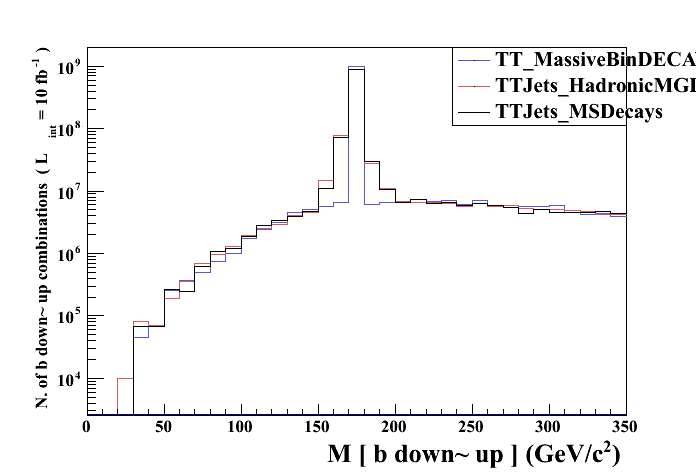
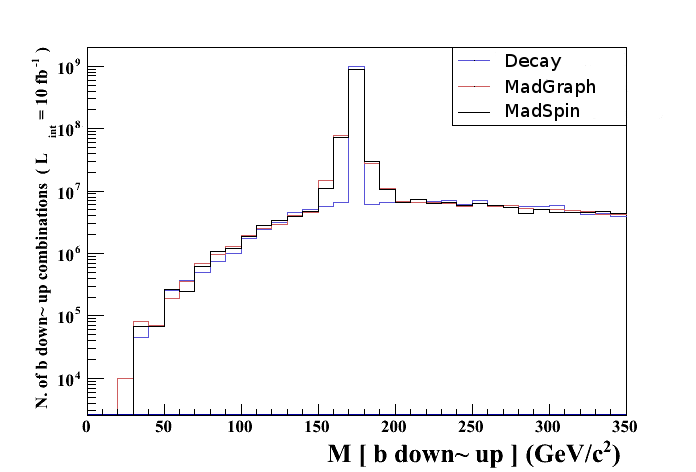
Complete MC chapter

Changed region(s): [[0.694, 0.089, 1.0, 0.2669]]

diff --git a/Chapter4.tex b/Chapter4.tex
@@ -25,7 +25,7 @@ The parton model was initially proposed by Richard Feynman in 1969, as a method 
 
 However, as the energy of the collision increases the probability to scatter a sea component, quark or gluon, increases. In addition, even if the valence quarks of a proton are the $u$ and $d$ quarks, heavier quarks can appear in the sea, as the $b$, $c$ or $s$ quarks. The probability to interact with a component, valence or sea, is described by parton distribution function, commonly called PDF. A PDF $f\equiv f(x,Q^{2})$ represent the number density of a given quark or gluon as a function of the energy scale $Q^{2}$ and the fraction of momentum carried by the parton $x$. The determination of a PDF is done via a fit of large data samples from experiments specifically designed to test the inner structure of nucleons. The DIS (Deep Inelastic Scattering) experiment at SLAC (Stanford Linear Accelerator Center), in California, United States, first probed the existence of partonic structure inside nucleons using leptons as probes scattered against nucleons. Another important experiment was the HERA accelerator at DESY in Hamburg, Germany, which used electrons to study the inner structure of protons.
 
-In figure~\ref{fig:MSTW} is shown the Martin-Stirling-Thorne-Watt~\cite{Martin:2009iq} (MSTW) PDF for two energy scales. The MSTW PDF is one of the experimental fits combining data from DIS and HERA. In this PDF can be seen that $u$ and $d$ quarks carry the most of the momentum of the proton. The rest of the momentum is spread mainly over a huge amount of gluons and some, less probable, sea quarks as $\bar{u}, \bar{d}$ or $c$ and $s$. One important feature is that the composition of the proton changes depending on the energy scale. At $Q^{2}= 10\, GeV^{2}$ there is no probability to find a $b$-quark in the proton while at $Q^{2}= 10^{4}\, GeV^{2}$ there is a non-negligible probability to find it in the proton.
+In figure~\ref{fig:MSTW} is shown the Martin-Stirling-Thorne-Watt~\cite{Martin:2009iq} (MSTW) PDF for two energy scales. The MSTW PDF is one of the experimental fits combining data from DIS and HERA. In this PDF can be seen that $u$ and $d$ quarks carry the most of the momentum of the proton. The rest of the momentum is spread mainly over a huge amount of gluons and some, less probable, sea quarks as $\bar{u}, \bar{d}$ or $c$ and $s$. One important feature is that the composition of the proton changes depending on the energy scale. At $Q^{2}= 10\, \text{GeV}^{2}$ there is no probability to find a $b$-quark in the proton while at $Q^{2}= 10^{4}\, \text{GeV}^{2}$ there is a non-negligible probability to find it.
 
 \begin{figure}[!Hhtbp]
   \begin{center}
@@ -59,7 +59,7 @@ Parton simulations try to simulate the interactions between partons in hadronic 
 \subsection{Hadron simulation}
 \label{sec:hadron}
 
-But quarks produced in a collision are not seen freely due to strong interaction. they will take quarks from vacua to form hadrons. What reach the detector as final state are the stable hadrons resulting from the hadronization process. From a single parton several hadrons can result, producing a \textit{shower} of particles, as seen in figure~\ref{fig:Hadr}. 
+But quarks produced in a collision are not seen freely due to strong interaction. They will take quarks from vacua to form hadrons. What reach the detector as final state are the stable hadrons resulting from the hadronization process. From a single parton several hadrons can result, producing a \textit{shower} of particles, as seen in figure~\ref{fig:Hadr}. Two main processes are simulated, the \textit{showering} that correspond to radiations emitted by quarks, at initial or final state, and \textit{hadronization} the process of forming hadrons from quarks and gluons. 
 
 As QCD strong interaction imposes several theoretical restrictions to have a first principles understanding of these phenomena, the description of hadronization relies in the construction of effective models. There are basically two main models to simulate hadronization/showering of quarks and gluons, both giving comparable predictions. It is important to remark that this is a very important step in simulations as from an accurate hadron production simulation depend the correctness of MC description of jets.
 
@@ -75,11 +75,11 @@ As QCD strong interaction imposes several theoretical restrictions to have a fir
 \subsection{Detector simulation}
 \label{sec:detector}
 
-After final particles from a collision are simulated, the next step is to simulate how these particles interact with the detector. The principle is that the detector response should be simulated as close as possible to the real detector. In that sense, the objective is to have a detector response using MC simulations as with real data. However, not everything is sensible of simulation. For example, during data taking can always happen different problems, subdetector misbehaving, dead cells, electrical noise saturation, etc. that can't be adjusted in MC simulation. What needs further correction and tuning. 
+After final particles from a collision are simulated, the next step is to simulate how these particles interact with the detector. The principle is that the detector response should be simulated as close as possible to the real detector. In that sense, the objective is to have a detector response using MC simulations as with real data. However, not everything is sensible of simulation. For example, during data taking can always happen different problems, subdetector misbehaving, dead cells, electrical noise saturation, etc. that can't be adjusted in MC simulation, what needs further correction and tuning. 
 
 CMS has used GEANT 4~\cite{Agostinelli:2002hh} software to simulate the detector. Precise implementation was done in order to correctly simulate each subdetector, their details as size, number of channels, cells, electronic cards, were taken into account. This simulation allows to get, as for data, the electric output from the detector used for the reconstruction and identification of objects. 
 
-MC simulations are always being corrected to match correctly the real experimental conditions. Moreover for complicated objects as jets, with many subdectectors information combined, or jet b-tagging that depend strongly of finding second vertices, easier to find in \textit{optimal} MC simulation conditions than experimental reality.
+MC simulations are always being corrected to match correctly the real experimental conditions. Moreover for complicated objects as jets, with many subdectectors information combined, or jet b-tagging that depend strongly of finding second vertices, easier to find in \textit{optimal} MC simulation conditions than in experimental reality.
 
 \section{Tools}
 \label{sec:tools}
@@ -91,15 +91,15 @@ There are several tools in the market to perform the different steps of MC simul
 
 Regarding parton simulation, \textit{MadGraph}~\cite{Alwall:2014hca, Alwall:2011uj} package is the most widely used. It calculates matrix-elements, LO cross sections and particle widths. With such information it generates MC events for parton collisions. 
 
-The latest series of releases also include an additional package to perform NLO QCD corrections to SM processes. The framework also includes the possibility to work with BSM models, making it a powerful tool for evaluating predictions from these models. 
+The latest series of releases also include an additional package to perform NLO QCD corrections to SM processes. The framework also includes the possibility to work with BSM models, making it a powerful tool for evaluating predictions from them. Another parton generator is POWHEG, in it's most recent version POWHEG BOX~\cite{Nason:2004rx, Frixione:2007vw, Alioli:2010xd}, that is specially accurate to simulate events with top quarks. It is well know that this generator gives a better agreement between data and MC in top physics.
 
 In CMS all physics groups, groups making analyses of data collected by CMS, have to do simulations of signals and backgrounds needed for their analyses. For this purpose MC simulation tools, as \textit{MadGraph}, need to be interfaced with the central CMS software \textit{CMSSW} (CMS SoftWare). The generators group do this work preparing sets of validated code for later use by CMS users. This group is also in charge of central MC production, the technical process of MC production of samples doing all the needed steps to obtain validated samples to compare with CMS data: Parton generation, Hadronization and Detector simulation. 
 
 Central production of samples using \textit{MadGraph} is done via the generation of stand-alone packs of code used to launch parallelized production. This utility is known as \textit{gridpack}. Gridpack generation must include all possible configurations needed for CMS central production: settings to run within CMSSW, in batch systems and additional physics requirements depending on the process to be generated. A special script has been put in place to allow users to do their own gridpack generation with small effort in terms of automatization of common tasks.
 
-In addition, the generator group also provide constant support for users to test validity of users production, \textit{MadGraph} configuration, usage of interface software in CMSSW and testing implementations of BSM models.
+In addition, the generator group also provide constant support for users to test the validity of their production, \textit{MadGraph} configuration, usage of interface software in CMSSW and testing implementations of BSM models.
 
-\subsubsection{Preparation of \textit{MadGraph} production cards}
+\subsubsection{Preparation of \textit{MadGraph} production}
 
 Any production of partonic MC samples with \textit{MadGraph} relies in 4 key elements:
 \begin{itemize}
@@ -132,7 +132,7 @@ output -f
       \end{center}
     \end{figure}
     
-    \item Parameters card: This card is utilized to set the parameters of the model being used for the production. Following the example of top pair production, one might be interested to produce different samples varying the top mass. In figure~\ref{fig:ParamCard} can be seen the extract of the card that controls the masses of the particles in the model. The first column refers to the PDG ID of the particles, 6 for the top quark, and the second column is the value of the mass. In this case the top mass has been set to 172.5 GeV/$c^{2}$.
+    \item Parameters card: This card is utilized to set the parameters of the model invoked for the production. Following the example of top pair production, one might be interested to produce different samples varying the top mass. In figure~\ref{fig:ParamCard} can be seen the extract of the card that controls the masses of the particles in the model. The first column refers to the PDG ID of the particles, 6 for the top quark, and the second column is the value of the mass. In this case the top mass has been set to 172.5 GeV/$c^{2}$.
     \begin{figure}[!Hhtbp]
       \begin{center}
         \begin{minipage}[c]{0.45\textwidth}
@@ -156,7 +156,7 @@ Block MASS
       \end{center}
     \end{figure}
 
-  \item Run card: In the run card several settings can be chosen related to the generation of the events. For example, the center of mass energy or the minimal and maximal $\Delta R$ between jets. For generation of events requiring more than one additional extra jet a parameter called \textbf{xqcut} can also be set in this card. This parameter is relevant for merging procedure, important to avoid double counting, a topic that will be discussed in section~\ref{sec:Merging}. In figure~\ref{fig:RunCard} an extract of a run card is shown, where the parameters corresponding to the $\sqrt{s}$ of the collision, the number of events to be generated, gridpack generation, the choice of PDF set and merging are displayed.
+  \item Run card: In the run card several settings can be fixed related to the generation of the events. For example, the center of mass energy or the minimal and maximal $\Delta R$ between jets. For generation of events requiring more than one additional extra jet a parameter called \textbf{xqcut} can also be set in this card. This parameter is relevant for merging procedure, important to avoid double counting, a topic that will be discussed in section~\ref{sec:Merging}. In figure~\ref{fig:RunCard} an extract of a run card is shown, where the parameters corresponding to the $\sqrt{s}$ of the collision, the number of events to be generated, gridpack generation, the choice of PDF set and merging procedure are displayed.
     \begin{figure}[!Hhtbp]
       \begin{center}
         \begin{minipage}[c]{0.7\textwidth}
@@ -212,7 +212,7 @@ Block MASS
 
 \textit{MadGraph} package is one of the MC tools most used in the market. It's a very dynamic tool, were the input from the users is being taken into account permanently. Are precisely the users that give reports of possible bugs or recommendations in the way the tool works. New releases of \textit{MadGraph} are constantly delivered to solve found issues or to improve weaknesses. For CMS production, not every new release is automatically incorporated. In order to begin using a new release a validation procedure is done. Basic processes of the SM are taken with the last release used by CMS and then compared to the new release. Such comparison is performed to control that the predictions from both releases are identical, off course processes where no changes have been performed between both releases. 
 
-For example, one of the control processes for this validation is SM production of a $Z$ boson that decays into neutrinos produced with extra jets. In \textit{MadGraph} extra jets has the capability to produce extra jets up to a multiplicity of 4. In figure~\ref{fig:ZRelVal1} can be seen the comparison between samples produced with \textit{MadGraph} 1.4.8 and 1.5.11. The results of both releases are equivalent for the specific considered process.
+For example, one of the control processes for this validation is SM production of a $Z$ boson that decays into neutrinos produced with extra jets. \textit{MadGraph} is able to produce extra jets up to a multiplicity of 4. In figure~\ref{fig:ZRelVal1} can be seen the comparison between samples produced with \textit{MadGraph} 1.4.8 and 1.5.11. The results of both releases are equivalent for the specific considered process.
 
 \begin{figure}[!Hhtbp]
   \begin{center}
@@ -243,15 +243,15 @@ In addition, in figure~\ref{fig:ZRelVal2} can be seen two global variables, miss
 
 \subsubsection{Incorporating new releases improvements}
 
-New \textit{MadGraph} releases are interesting not only because of bugs being fixed but also because they normally include new features and improvements. For example, latest set of releases of include NLO corrections for SM processes. NLO corrections are crucial to do precise measurements that is one of the major interests in various SM sectors. Top physics has become a very important sector to perform precise measurements. Any small deviation of SM predictions related to the top quark could be related to the presence of BSM physics. To this extent, there is a growing need to have better MC simulations of top quark processes.
+New \textit{MadGraph} releases are interesting not only because of bugs being fixed but also because they normally include new features and improvements. For example, latest set of releases include NLO corrections for SM processes, improvement not present before. NLO corrections are crucial to do precise measurements, that is one of the major interests in various SM sectors. Top physics has become a very important sector to perform precise measurements. Any small deviation of SM predictions related to the top quark could be related to the presence of BSM physics. To this extent, there is a growing need to have better MC simulations of top quark processes.
 
-From a technical point of view a complete simulation of top decay chain was not feasible. It was very time and CPU consuming for old \textit{MadGraph} releases. Modern releases have improved the performance of these calculations but also have included new tools that allow to simulate at parton level the entire top decay chain with high precision and small resources. One of these tools is MadSpin~\cite{Artoisenet:2012st, Frixione:2007zp}, tool developed to conserve the spin correlations between the decay products. However \textit{MadGraph} alone is able to simulate the top decay is extremely CPU and time consuming, then not usable for big central production at CMS. In the other hand decaying the top quark with Pythia erase all the spin correlations. In CMS MadSpin has been included in the gridpack generation production mainly to generate top pair production samples. MadSpin is the modern version of the old \textbf{DECAY} tool, that do not preserve spin correlations.
+From a technical point of view a complete simulation of top decay chain was not feasible at \textit{MadGraph} level. It was very time and CPU consuming for old \textit{MadGraph} releases. Modern releases have improved the performance of these calculations but also have included new tools that allow to simulate at parton level the entire top decay chain with high precision and small resources. One of these tools is MadSpin~\cite{Artoisenet:2012st, Frixione:2007zp}, tool developed to preserve the spin correlations between the decay products. Even tho, \textit{MadGraph} alone is able to simulate the top decay, is still extremely CPU and time consuming, and then, not usable for big central production at CMS. In the other hand decaying the top quark with Pythia erase all the spin correlations. In CMS MadSpin has been included in the gridpack generation production mainly to generate top pair production samples. MadSpin is the modern version of the old \textbf{DECAY} tool, that do not preserve spin correlations.
 
-But to consider MadSpin for CMS usage there is an interest in showing the improvement of MC samples produced with it with regards to former samples. Before MadSpin, top decay was normally simulated in \textit{MadGraph} with DECAY tool. MadSpin is expected to have the same results as \textit{MadGraph} but with a great improvement in terms of computational resources consumption. In figure~\ref{fig:MS1} can be seen the top quark mass reconstructed from its hadronic decay (a $b$, $u$ and $\bar{d}$ quarks). In it can be seen how MadSpin correctly produce the top width while DECAY gives a zero width. In figure~\ref{fig:MS2} can be seen the $\Delta R$ between the positively and negatively charged decay products of the $W$ bosons produced in top pair events. This observable is different in case there are or not spin correlations. 
+But to consider MadSpin for CMS usage there is an interest in showing the improvement of MC samples produced with it with regards to former samples. Before MadSpin, top decay was normally simulated in \textit{MadGraph} with DECAY tool. MadSpin is expected to have the same results as \textit{MadGraph} but with a great improvement in terms of computational resources consumption. In figure~\ref{fig:MS1} can be seen the top quark mass reconstructed from its hadronic decay ($b$, $u$ and $\bar{d}$ quarks). In it can be seen how MadSpin correctly produce the top width while DECAY gives a zero width. In figure~\ref{fig:MS2} can be seen the $\Delta R$ between the positively and negatively charged decay products of the $W$ bosons produced in top pair events. This observable is different in case there are or not spin correlations. 
 
 \begin{figure}[!Hhtbp]
   \begin{center}
-    \includegraphics[width=0.45\textwidth]{figs/TT_MadSPin_1.png}
+    \includegraphics[width=0.65\textwidth]{figs/TT_MadSPin_1.png}
     \caption{Top mass reconstructed from its hadronic decay using different tools to simulate the top decay for $t\bar{t}$ events at $\sqrt{s}=8$ TeV. MadSpin and \textit{MadGraph} correctly reproduce the top width.}
     \label{fig:MS1}
   \end{center}
@@ -259,7 +259,7 @@ But to consider MadSpin for CMS usage there is an interest in showing the improv
 
 \begin{figure}[!Hhtbp]
   \begin{center}
-    \includegraphics[width=0.45\textwidth]{figs/TT_MadSPin_2.png}
+    \includegraphics[width=0.65\textwidth]{figs/TT_MadSPin_2.png}
     \caption{$\Delta R$ from positively and negatively charged decay products using different tools to simulate the top decay for $t\bar{t}$ events at $\sqrt{s}=8$ TeV. MadSpin and \textit{MadGraph} preservation of spin correlations produce different results than DECAY tool.}
     \label{fig:MS2}
   \end{center}
@@ -268,14 +268,70 @@ But to consider MadSpin for CMS usage there is an interest in showing the improv
 \subsection{Hadron generators}
 \label{sec:Had}
 
-Taking as input partonic events, hadron generators perform their corresponding showering. The most used hadronizers in CMS are Pythia~\cite{Sjostrand:2006za}, in releases 6 and 8, and Herwig ++~\cite{Bahr:2008pv}. They are used for a wide range of SM processes simulation. They can be used also to simulate directly QCD processes with full hadronic final states, without the parton step. Another hadron generator is POWHEG, in it's most recent version POWHEG BOX~\cite{Nason:2004rx, Frixione:2007vw, Alioli:2010xd}, that is specially accurate to simulate events with top quarks. It is well know that this generator gives a better agreement between data and MC in top physics.
+Taking as input partonic events, hadron generators perform their corresponding showering and hadronization. The most used hadronizers in CMS are Pythia~\cite{Sjostrand:2006za}, in releases 6 and 8, and Herwig ++~\cite{Bahr:2008pv}. They are used for a wide range of SM processes simulation. They can be used also to simulate directly QCD processes with full hadronic final states, without the parton step.
 
 Hadronization processes are QCD mediated. As strong force is a non-perturbative interaction, different hadrons simulation implement different effective models. Reason why when comparing simulations to data different hadron generators are used in order to corroborate the understanding of data independently from the hadronization model. 
 
 \subsubsection{Interface between partonic and hadronic generation of events}
 \label{sec:Merging}
 
+Matrix element (ME) generation is responsible for simulation of hard processes. This is generating all the final quarks and gluons coming from the collision. Parton showering (PS) is responsible for the simulation of ``soft'' processes coming from strong interaction. For example, an initial or final quark can radiate a gluon that will lead to additional jets in the event. The generation of extra jets (coming from extra quarks or gluons) can suffer from an overlap between the ME and PS. In figure~\ref{fig:PSME} can be seen a graphical description of the procedure followed by ME and PS to add extra jets to a process. 
 
+\begin{figure}[!Hhtbp]
+  \begin{center}
+    \includegraphics[width=0.75\textwidth]{figs/PSMEInterface.png}
+    \caption{ME and PS contributions to events with several partons in the final state in a leading order MC simulation.}
+    \label{fig:PSME}
+  \end{center}
+\end{figure}
+
+This overlap can lead to double counting events which has as consequence an overestimation of the cross section of the process and of events with certain topologies. To solve this issue a procedure has been designed to study the overlap between \textit{MadGraph} and Pythia. This procedure is known as merging~\cite{Alwall:2007fs, Alwall:2008qv, Lavesson:2007uu}. It is based on the application of one or two cuts to separate hard and soft phase space, hard region being generated by ME and soft region by PS. \textit{MadGraph} uses MLM merging formalism to do this task~\cite{Mangano:2001xp, Mangano:2006rw}. 
+
+In general the merging procedure follow a set of common steps:
+\begin{itemize}
+\item A jet algorithm is defined and all relevant cross sections are calculated accordingly for the process under consideration. The calculation is performed for each final jet multiplicity. For example, when generating top pair production up to 4 additional jets, the cross section is calculated for $t\bar{t}$ with 0, 1, 2, 3, and 4 jets. 
+\item ME samples are produced with a probability corresponding to their cross section.
+\item Events or partons are rejected based on specific procedure requirement.
+\item Parton shower is invoked constrained to not produce any extra jet.
+\end{itemize}
+
+\textit{MadGraph} utilize a MLM merging procedure with $k_{T}$ jet algorithm. The MLM prescription proceed as follows:
+\begin{enumerate}
+\item Generation of parton level events constrained to user requirements:
+  \begin{equation*}
+    p_{T}^{parton}>p_{T}^{min}, \; |\eta^{parton}|<\eta^{max}, \; \Delta R_{partons}>R_{min}
+  \end{equation*} where \textit{min} and \textit{max} states for the minimal and maximal values required in each variable.
+\item Usage of $k_{T}$ jet algorithm to find jet configuration of the event from partons. This first reconstruction use a cut on the minimal $k_{T}$ as defined in equation~\ref{eq:kt}. This first minimal cut is set in \textit{MadGraph} by the variable \textbf{xqcut} (see~\ref{fig:RunCard}). $Q^{X}_{cut}$ will be used to refer to it.
+\item Run parton shower and rerun jet algorithm with a different minimal $k_{T}$. The second minimum, the $Q_{cut}$, is set in Pythia. The two minima are chosen to be $Q_{cut}>Q^{X}_{cut}$.
+\item Compare the set of jets obtained from step 2 and 3. If a jet from the parton event falls in a radius smaller than $1.5 \times R$, with $R$ the radius parameter of the jet algorithm, to a jet from the showered event it is said to be matched to it. If a match is found for all partons the event is kept, otherwise is rejected.
+\item All events with more jets, after showering, than partons are finally discarded.   
+\end{enumerate}
+
+The goodness of the procedure depends of the choice of $Q_{cut}$ and $Q^{X}_{cut}$. The optimal values are highly dependent of several parameters, for example the $p_{T}$ of the partons or the $\sqrt{s}$ of the collision. 
+
+In general, for each process there are an optimal $Q_{cut}$ and $Q^{X}_{cut}$. But in principle there is no way to deduce them without producing the samples and performing the merging procedure. Only from the results one can know if the procedure was successful. Reason why multiple generation of samples scanning both $Q_{cut}$ and $Q^{X}_{cut}$, are needed to find the optimal solution. As the main interest is to cover correctly the entire phase space with ME+PS, one can fix $Q^{X}_{cut}$ and then scan $Q_{cut}$ over it, with $Q_{cut}>Q^{X}_{cut}$. If no $Q_{cut}$ value optimize the merging procedure then another $Q^{X}_{cut}$ is used. 
+
+The ideal variable to check the effectiveness of the merging, is the differential jet rate (DJR) as function of the merging scale. The merging scale defines the transition between different jet multiplicities, and the DJR is examined for the transition between $n$ and $n-1$ jet multiplicities. The $Q_{cut}$ controls the number of jets found in an event from parton showering. Its optimal value lead to a continuum in the transition phase between ME and PS. A non-optimal value lead to an over or underpopulation of the phase space. In both cases the sample does not represent a meaningful physics sample.
+
+For MC generation of samples for run II of LHC, the optimal values for $Q_{cut}$ and $Q^{X}_{cut}$ should be found according to the increase of the energy of the collision from 8 TeV to 13 TeV. In figure~\ref{fig:TTJetsMerging} is shown the result of the study for $t\bar{t}$ production up to 3 additional jets with \textit{MadGraph} and Pythia 8. For this study $Q^{X}_{cut}=20$ GeV and the optimal $Q_{cut}$ was found to be 100 GeV (left figure). The result using $Q_{cut}=60$ GeV is also shown (right figure) where a discontinuity in the DJR can be seen at the ME to PS transition point. In figure~\ref{fig:DYMerging} the same study is shown for Drell-Yan process with up to 3 additional jets at 13 TeV with \textit{MadGraph} and Pythia 6. 
+
+\begin{figure}[!Hhtbp]
+  \begin{center}
+    \includegraphics[width=0.47\textwidth]{figs/DJR_q100_xq20_TTJets13TeV.png}
+    \includegraphics[width=0.47\textwidth]{figs/DJR_q50_xq20_TTJets13TeV.png}
+    \caption{DJR for 13 TeV top pair production with $Q_{cut}=100$ GeV and $Q^{X}_{cut}=20$ GeV [optimal case] (left) and $Q_{cut}=60$ GeV and $Q^{X}_{cut}=20$ [non-optimal] (right).}
+    \label{fig:TTJetsMerging}
+  \end{center}
+\end{figure}
+
+\begin{figure}[!Hhtbp]
+  \begin{center}
+    \includegraphics[width=0.47\textwidth]{figs/DJR_q25_xq10_DYJets13TeV.png}
+    \includegraphics[width=0.47\textwidth]{figs/DJR_q32_xq10_DYJets13TeV.png}
+    \caption{DJR for 13 TeV Drell-Yan production with $Q_{cut}=125$ GeV and $Q^{X}_{cut}=10$ GeV [optimal case] (left) and $Q_{cut}=32$ GeV and $Q^{X}_{cut}=10$ [non-optimal] (right).}
+    \label{fig:DYMerging}
+  \end{center}
+\end{figure}
 
 \section{Validation on data}
 \label{sec:val}
@@ -289,7 +345,7 @@ A considerable number of SM processes have been measured by experiments very acc
 
 There are different tools in the market designed to validate MC generators. The Rivet project (Robust Independent Validation of Experiment and Theory)~\cite{Buckley:2010ar} is a toolkit for MC generators validation, providing a large set of experimental analyses. This tool has been extensively used by experiments and MC generators developers for MC development, tuning and validation. 
 
-With the analyses, it provides the experimental data resulting from them. This data has been processed to remove detector effects from it, what is known as detector unfolding. This procedure tries to inverse detector simulation to obtain event information after hadronization. This constitutes a suitable method to compare data with MC simulations up to hadronization. CMS and ATLAS experiments contribute constantly providing unfolded results to Rivet toolkit database.
+With the analyses, it provides the experimental data resulting from them. This data has been processed to remove detector effects from it, what is known as detector unfolding. This procedure tries to inverse detector simulation to obtain event information of particles before interacting with the detector. This constitutes a suitable method to compare data with MC simulations up to hadronization. CMS and ATLAS experiments contribute constantly providing unfolded results to Rivet toolkit database.
 
 In figures~\ref{fig:WVal} and~\ref{fig:ZVal} can be seen examples of MC validation using Rivet tool. For the first figure a comparison between several MC simulations have been compared to ATLAS experiment data in the measurement of $W$ boson $p_{T}$. In figure~\ref{fig:ZVal} the same MC generators have been compared to $Z$ boson $p_{T}$ measurements performed by CMS and ATLAS. In the three validations \textit{MadGraph} interfaced with Pythia 6 describe better real data than the other generators used. 
 
